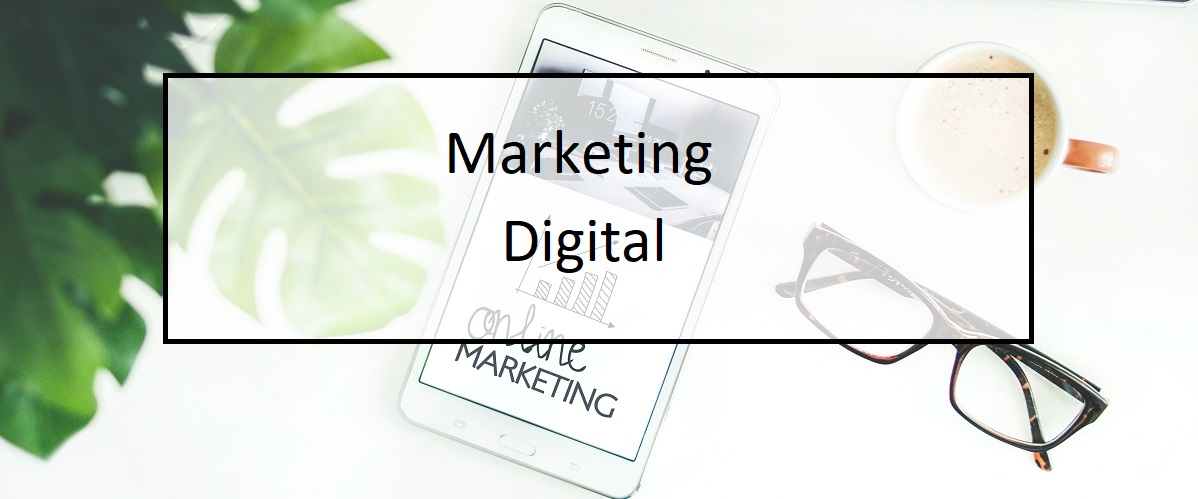
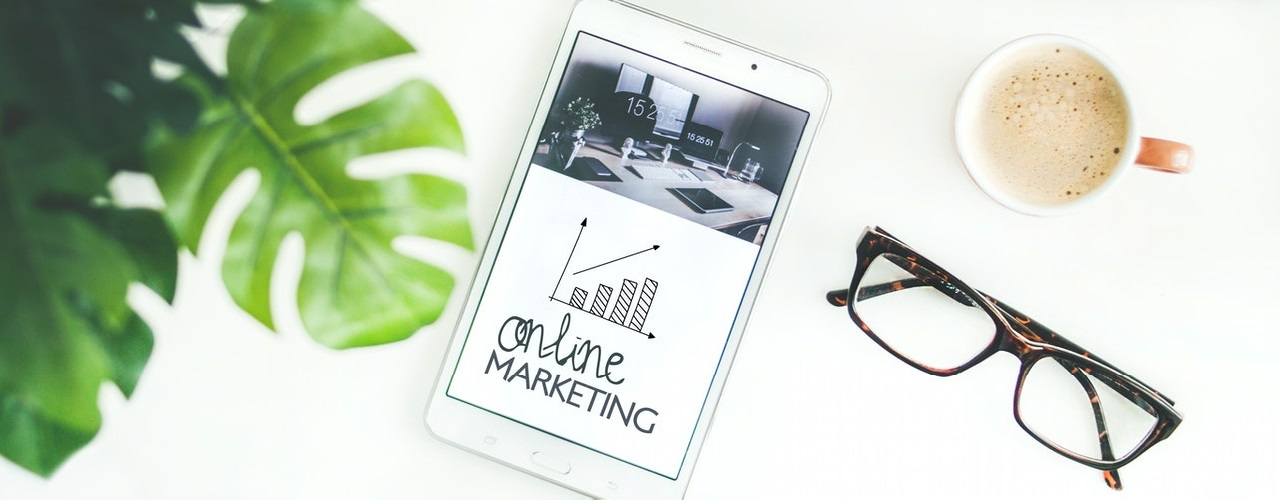
adicionadas as paginas de cada curso

diff --git a/cursodes.html b/cursodes.html
@@ -49,76 +49,28 @@
 <!--Final da navegação-->
 
 <div id="corpo" class="container-fluid">   
-  <div class="container">        
-    <div class="container-fluid justify-content-center pt-3"> 
-      <div id="carouselExampleControls" class="carousel slide" data-bs-ride="carousel">
-        <div class="carousel-inner">
-          <div class="carousel-item active">
-            <img src="img/img1.jpg" class="d-block w-100" alt="...">
-          </div>
-          <div class="carousel-item">
-            <img src="img/img2.jpg" class="d-block w-100" alt="...">
-          </div>
-          <div class="carousel-item">
-            <img src="img/img3.jpg" class="d-block w-100" alt="...">
-          </div>
-          <div class="carousel-item">
-            <a href="https://www.youtube.com/watch?v=qm1Clv5IjOQ" target="_blank"><img src="img/img4.jpg" class="d-block w-100" alt="..."></a>
-          </div>
-        </div>
-        <button class="carousel-control-prev" type="button" data-bs-target="#carouselExampleControls" data-bs-slide="prev">
-        <span class="carousel-control-prev-icon" aria-hidden="true"></span>
-        <span class="visually-hidden">Anterior</span>
-        </button>
-        <button class="carousel-control-next" type="button" data-bs-target="#carouselExampleControls" data-bs-slide="next">
-        <span class="carousel-control-next-icon" aria-hidden="true"></span>
-        <span class="visually-hidden">Próximo</span>
-        </button>
-      </div>
-    </div>
+  <div id="titulodev" class="container-fluid text-center pt-3 pb-3">
+    <h1>Design, Marketing e Vídeo</h1>
+    <span id="imgdev">
+    <img src="img/imgdes.jpg" class="img-fluid"alt="Desenvolvimento Web e Java">
+    </span>    
+      <div class="container pt-3">
+        <div class="card-body">
+          <h5 class="card-title">Descrição do curso</h5>
+          <p class="text-start">Lorem ipsum dolor sit amet, consectetur adipiscing elit. Cras eu mauris ut justo feugiat pharetra vitae eu ex. Class aptent taciti sociosqu ad litora torquent per conubia nostra, per inceptos himenaeos. Quisque placerat lacus orci, a laoreet nunc rutrum ut.</p><p class="text-start">Sed eget tortor ultricies libero porta consequat. Donec volutpat libero est, egestas tempus elit euismod vitae. Donec tristique dignissim dignissim. Suspendisse varius interdum euismod. Proin interdum, libero vitae tempor malesuada, felis purus ultricies ligula, eget dictum lorem odio eu nunc. Nam sollicitudin pretium massa eu iaculis.</p><p class="text-start">Quisque efficitur ut lorem et congue. Orci varius natoque penatibus et magnis dis parturient montes, nascetur ridiculus mus. Fusce et purus tempus, suscipit quam eget, ullamcorper sapien. Mauris efficitur non nisi in imperdiet. Nullam luctus egestas pellentesque. Etiam in fringilla ligula.</p>
+          <a href="#" class="btn btn-warning">Ver valor</a>
+        </div>          
+      </div>        
   </div>
-  <!--Final do carrossel-->
-
-  <div class="container">
-    <div class="row pt-3">
-      <div class="col-sm-4 pb-3">
-        <div class="fundocard">
-          <div class="card-body">
-            <h5 class="card-title">Desenvolvedor Web e Java</h5>
-            <p class="card-text">Lorem ipsum dolor sit amet, consectetur adipiscing elit. Praesent diam libero, blandit eu maximus posuere, porta vel dolor.</p>
-            <a href="cursodev.html" class="btn btn-warning">Conheça a formação</a>
-          </div>
-        </div>
-      </div>
-      <div class="col-sm-4 pb-3">
-        <div class="fundocard">
-          <div class="card-body">
-            <h5 class="card-title">Marketing Digital</h5>
-            <p class="card-text">Lorem ipsum dolor sit amet, consectetur adipiscing elit. Praesent diam libero, blandit eu maximus posuere, porta vel dolor.</p>
-            <a href="cursomkt.html" class="btn btn-warning">Conheça a formação</a>
-          </div>
-        </div>
-      </div>
-      <div class="col-sm-4 pb-3">
-        <div class="fundocard">
-          <div class="card-body">
-            <h5 class="card-title">Design, Marketing e Vídeo</h5>
-            <p class="card-text">Lorem ipsum dolor sit amet, consectetur adipiscing elit. Praesent diam libero, blandit eu maximus posuere, porta vel dolor.</p>
-            <a href="cursodes.html" class="btn btn-warning">Conheça a formação</a>
-          </div>
-        </div>
-      </div>
-    </div>
-  </div>
-  <!--Final dos cards dos cursos-->
+<!--Final descrição do curso-->
 
   <div class="container">    
     <div class="row pt-3" id="texto1">        
-      <h1>50 Bits de Liberdade</h1>
-      <p>Cras tincidunt aliquam ipsum, nec mattis mi faucibus eget. Suspendisse potenti. Curabitur consectetur purus vel ante bibendum sollicitudin vitae gravida orci. Suspendisse facilisis lacinia velit. Cras a erat ac arcu pretium auctor in imperdiet dolor. Nullam facilisis sapien et nunc blandit, a varius lectus consequat. Sed id commodo velit.</p>        
+      <h1>A jornada do herói</h1>
+      <p>Cras tincidunt aliquam ipsum, nec mattis mi faucibus eget. Suspendisse potenti. Curabitur consectetur purus vel ante bibendum sollicitudin vitae gravida orci. Suspendisse facilisis lacinia velit. Cras a erat ac arcu pretium auctor in imperdiet dolor. Nullam facilisis sapien et nunc blandit, a varius lectus consequat. Sed id commodo velit.</p>          
     </div>    
-    <div class="row pb-3">
-      <iframe width="100%" height="500" src="https://www.youtube.com/embed/qm1Clv5IjOQ" title="YouTube video player" frameborder="0" allow="accelerometer; autoplay; clipboard-write; encrypted-media; gyroscope; picture-in-picture" allowfullscreen></iframe>
+    <div class="row pt-3 pb-3">
+      <iframe width="100%" height="500" src="https://www.youtube.com/embed/1guaTYQsprw" title="YouTube video player" frameborder="0" allow="accelerometer; autoplay; clipboard-write; encrypted-media; gyroscope; picture-in-picture" allowfullscreen></iframe>
     </div>
   </div>
 </div>

diff --git a/cursomkt.html b/cursomkt.html
@@ -49,76 +49,28 @@
 <!--Final da navegação-->
 
 <div id="corpo" class="container-fluid">   
-  <div class="container">        
-    <div class="container-fluid justify-content-center pt-3"> 
-      <div id="carouselExampleControls" class="carousel slide" data-bs-ride="carousel">
-        <div class="carousel-inner">
-          <div class="carousel-item active">
-            <img src="img/img1.jpg" class="d-block w-100" alt="...">
-          </div>
-          <div class="carousel-item">
-            <img src="img/img2.jpg" class="d-block w-100" alt="...">
-          </div>
-          <div class="carousel-item">
-            <img src="img/img3.jpg" class="d-block w-100" alt="...">
-          </div>
-          <div class="carousel-item">
-            <a href="https://www.youtube.com/watch?v=qm1Clv5IjOQ" target="_blank"><img src="img/img4.jpg" class="d-block w-100" alt="..."></a>
-          </div>
-        </div>
-        <button class="carousel-control-prev" type="button" data-bs-target="#carouselExampleControls" data-bs-slide="prev">
-        <span class="carousel-control-prev-icon" aria-hidden="true"></span>
-        <span class="visually-hidden">Anterior</span>
-        </button>
-        <button class="carousel-control-next" type="button" data-bs-target="#carouselExampleControls" data-bs-slide="next">
-        <span class="carousel-control-next-icon" aria-hidden="true"></span>
-        <span class="visually-hidden">Próximo</span>
-        </button>
-      </div>
-    </div>
+  <div id="titulodev" class="container-fluid text-center pt-3 pb-3">
+    <h1>Marketing Digital</h1>
+    <span id="imgdev">
+    <img src="img/imgmkt.png" class="img-fluid"alt="Desenvolvimento Web e Java">
+    </span>    
+      <div class="container pt-3">
+        <div class="card-body">
+          <h5 class="card-title">Descrição do curso</h5>
+          <p class="text-start">Lorem ipsum dolor sit amet, consectetur adipiscing elit. Cras eu mauris ut justo feugiat pharetra vitae eu ex. Class aptent taciti sociosqu ad litora torquent per conubia nostra, per inceptos himenaeos. Quisque placerat lacus orci, a laoreet nunc rutrum ut.</p><p class="text-start">Sed eget tortor ultricies libero porta consequat. Donec volutpat libero est, egestas tempus elit euismod vitae. Donec tristique dignissim dignissim. Suspendisse varius interdum euismod. Proin interdum, libero vitae tempor malesuada, felis purus ultricies ligula, eget dictum lorem odio eu nunc. Nam sollicitudin pretium massa eu iaculis.</p><p class="text-start">Quisque efficitur ut lorem et congue. Orci varius natoque penatibus et magnis dis parturient montes, nascetur ridiculus mus. Fusce et purus tempus, suscipit quam eget, ullamcorper sapien. Mauris efficitur non nisi in imperdiet. Nullam luctus egestas pellentesque. Etiam in fringilla ligula.</p>
+          <a href="#" class="btn btn-warning">Ver valor</a>
+        </div>          
+      </div>        
   </div>
-  <!--Final do carrossel-->
-
-  <div class="container">
-    <div class="row pt-3">
-      <div class="col-sm-4 pb-3">
-        <div class="fundocard">
-          <div class="card-body">
-            <h5 class="card-title">Desenvolvedor Web e Java</h5>
-            <p class="card-text">Lorem ipsum dolor sit amet, consectetur adipiscing elit. Praesent diam libero, blandit eu maximus posuere, porta vel dolor.</p>
-            <a href="cursodev.html" class="btn btn-warning">Conheça a formação</a>
-          </div>
-        </div>
-      </div>
-      <div class="col-sm-4 pb-3">
-        <div class="fundocard">
-          <div class="card-body">
-            <h5 class="card-title">Marketing Digital</h5>
-            <p class="card-text">Lorem ipsum dolor sit amet, consectetur adipiscing elit. Praesent diam libero, blandit eu maximus posuere, porta vel dolor.</p>
-            <a href="cursomkt.html" class="btn btn-warning">Conheça a formação</a>
-          </div>
-        </div>
-      </div>
-      <div class="col-sm-4 pb-3">
-        <div class="fundocard">
-          <div class="card-body">
-            <h5 class="card-title">Design, Marketing e Vídeo</h5>
-            <p class="card-text">Lorem ipsum dolor sit amet, consectetur adipiscing elit. Praesent diam libero, blandit eu maximus posuere, porta vel dolor.</p>
-            <a href="cursodes.html" class="btn btn-warning">Conheça a formação</a>
-          </div>
-        </div>
-      </div>
-    </div>
-  </div>
-  <!--Final dos cards dos cursos-->
+<!--Final descrição do curso-->
 
   <div class="container">    
     <div class="row pt-3" id="texto1">        
-      <h1>50 Bits de Liberdade</h1>
-      <p>Cras tincidunt aliquam ipsum, nec mattis mi faucibus eget. Suspendisse potenti. Curabitur consectetur purus vel ante bibendum sollicitudin vitae gravida orci. Suspendisse facilisis lacinia velit. Cras a erat ac arcu pretium auctor in imperdiet dolor. Nullam facilisis sapien et nunc blandit, a varius lectus consequat. Sed id commodo velit.</p>        
+      <h1>A história sem fim</h1>
+      <p>Cras tincidunt aliquam ipsum, nec mattis mi faucibus eget. Suspendisse potenti. Curabitur consectetur purus vel ante bibendum sollicitudin vitae gravida orci. Suspendisse facilisis lacinia velit. Cras a erat ac arcu pretium auctor in imperdiet dolor. Nullam facilisis sapien et nunc blandit, a varius lectus consequat. Sed id commodo velit.</p>          
     </div>    
-    <div class="row pb-3">
-      <iframe width="100%" height="500" src="https://www.youtube.com/embed/qm1Clv5IjOQ" title="YouTube video player" frameborder="0" allow="accelerometer; autoplay; clipboard-write; encrypted-media; gyroscope; picture-in-picture" allowfullscreen></iframe>
+    <div class="row pt-3 pb-3">
+      <iframe width="100%" height="500" src="https://www.youtube.com/embed/_kFIqW-eDNM" title="YouTube video player" frameborder="0" allow="accelerometer; autoplay; clipboard-write; encrypted-media; gyroscope; picture-in-picture" allowfullscreen></iframe>
     </div>
   </div>
 </div>

diff --git a/cursodev.html b/cursodev.html
@@ -49,76 +49,28 @@
 <!--Final da navegação-->
 
 <div id="corpo" class="container-fluid">   
-  <div class="container">        
-    <div class="container-fluid justify-content-center pt-3"> 
-      <div id="carouselExampleControls" class="carousel slide" data-bs-ride="carousel">
-        <div class="carousel-inner">
-          <div class="carousel-item active">
-            <img src="img/img1.jpg" class="d-block w-100" alt="...">
-          </div>
-          <div class="carousel-item">
-            <img src="img/img2.jpg" class="d-block w-100" alt="...">
-          </div>
-          <div class="carousel-item">
-            <img src="img/img3.jpg" class="d-block w-100" alt="...">
-          </div>
-          <div class="carousel-item">
-            <a href="https://www.youtube.com/watch?v=qm1Clv5IjOQ" target="_blank"><img src="img/img4.jpg" class="d-block w-100" alt="..."></a>
-          </div>
+  <div id="titulodev" class="container-fluid text-center pt-3 pb-3">
+    <h1>Desenvolvimento Web e Java</h1>
+    <span id="imgdev">
+    <img src="img/imgdev.jpg" class="img-fluid"alt="Desenvolvimento Web e Java">
+    </span>    
+      <div class="container pt-3">
+        <div class="card-body">
+          <h5 class="card-title">Descrição do curso</h5>
+          <p class="text-start">Lorem ipsum dolor sit amet, consectetur adipiscing elit. Cras eu mauris ut justo feugiat pharetra vitae eu ex. Class aptent taciti sociosqu ad litora torquent per conubia nostra, per inceptos himenaeos. Quisque placerat lacus orci, a laoreet nunc rutrum ut.</p><p class="text-start">Sed eget tortor ultricies libero porta consequat. Donec volutpat libero est, egestas tempus elit euismod vitae. Donec tristique dignissim dignissim. Suspendisse varius interdum euismod. Proin interdum, libero vitae tempor malesuada, felis purus ultricies ligula, eget dictum lorem odio eu nunc. Nam sollicitudin pretium massa eu iaculis.</p><p class="text-start">Quisque efficitur ut lorem et congue. Orci varius natoque penatibus et magnis dis parturient montes, nascetur ridiculus mus. Fusce et purus tempus, suscipit quam eget, ullamcorper sapien. Mauris efficitur non nisi in imperdiet. Nullam luctus egestas pellentesque. Etiam in fringilla ligula.</p>
+          <a href="#" class="btn btn-warning">Ver valor</a>
         </div>
-        <button class="carousel-control-prev" type="button" data-bs-target="#carouselExampleControls" data-bs-slide="prev">
-        <span class="carousel-control-prev-icon" aria-hidden="true"></span>
-        <span class="visually-hidden">Anterior</span>
-        </button>
-        <button class="carousel-control-next" type="button" data-bs-target="#carouselExampleControls" data-bs-slide="next">
-        <span class="carousel-control-next-icon" aria-hidden="true"></span>
-        <span class="visually-hidden">Próximo</span>
-        </button>
-      </div>
-    </div>
+      </div>        
   </div>
-  <!--Final do carrossel-->
-
-  <div class="container">
-    <div class="row pt-3">
-      <div class="col-sm-4 pb-3">
-        <div class="fundocard">
-          <div class="card-body">
-            <h5 class="card-title">Desenvolvedor Web e Java</h5>
-            <p class="card-text">Lorem ipsum dolor sit amet, consectetur adipiscing elit. Praesent diam libero, blandit eu maximus posuere, porta vel dolor.</p>
-            <a href="cursodev.html" class="btn btn-warning">Conheça a formação</a>
-          </div>
-        </div>
-      </div>
-      <div class="col-sm-4 pb-3">
-        <div class="fundocard">
-          <div class="card-body">
-            <h5 class="card-title">Marketing Digital</h5>
-            <p class="card-text">Lorem ipsum dolor sit amet, consectetur adipiscing elit. Praesent diam libero, blandit eu maximus posuere, porta vel dolor.</p>
-            <a href="cursomkt.html" class="btn btn-warning">Conheça a formação</a>
-          </div>
-        </div>
-      </div>
-      <div class="col-sm-4 pb-3">
-        <div class="fundocard">
-          <div class="card-body">
-            <h5 class="card-title">Design, Marketing e Vídeo</h5>
-            <p class="card-text">Lorem ipsum dolor sit amet, consectetur adipiscing elit. Praesent diam libero, blandit eu maximus posuere, porta vel dolor.</p>
-            <a href="cursodes.html" class="btn btn-warning">Conheça a formação</a>
-          </div>
-        </div>
-      </div>
-    </div>
-  </div>
-  <!--Final dos cards dos cursos-->
+<!--Final descrição do curso-->
 
   <div class="container">    
     <div class="row pt-3" id="texto1">        
-      <h1>50 Bits de Liberdade</h1>
-      <p>Cras tincidunt aliquam ipsum, nec mattis mi faucibus eget. Suspendisse potenti. Curabitur consectetur purus vel ante bibendum sollicitudin vitae gravida orci. Suspendisse facilisis lacinia velit. Cras a erat ac arcu pretium auctor in imperdiet dolor. Nullam facilisis sapien et nunc blandit, a varius lectus consequat. Sed id commodo velit.</p>        
+      <h1>O primeiro emprego de programador</h1>
+      <p>Cras tincidunt aliquam ipsum, nec mattis mi faucibus eget. Suspendisse potenti. Curabitur consectetur purus vel ante bibendum sollicitudin vitae gravida orci. Suspendisse facilisis lacinia velit. Cras a erat ac arcu pretium auctor in imperdiet dolor. Nullam facilisis sapien et nunc blandit, a varius lectus consequat. Sed id commodo velit.</p>          
     </div>    
-    <div class="row pb-3">
-      <iframe width="100%" height="500" src="https://www.youtube.com/embed/qm1Clv5IjOQ" title="YouTube video player" frameborder="0" allow="accelerometer; autoplay; clipboard-write; encrypted-media; gyroscope; picture-in-picture" allowfullscreen></iframe>
+    <div class="row pt-3 pb-3">
+      <iframe width="100%" height="500" src="https://www.youtube.com/embed/F3FcaW04czg" title="YouTube video player" frameborder="0" allow="accelerometer; autoplay; clipboard-write; encrypted-media; gyroscope; picture-in-picture" allowfullscreen></iframe>
     </div>
   </div>
 </div>

diff --git a/css/style.css b/css/style.css
@@ -1,6 +1,16 @@
-#corpo {background: rgba(207, 207, 196, 0.9);
+#corpo {background: rgba(207, 207, 196, 0.5);
 		
 }
+
+#titulodev h1 {color: #000000 ;
+			font-family: Impact, fantasy, sans-serif;
+			font-size: 60px;
+			/*background-image: linear-gradient(to right, #FFB03B, #999999, #CFCFC4);
+			background-clip: text;
+  		-webkit-background-clip: text;
+  		-webkit-text-fill-color: transparent;*/
+}
+
 
 #logo{width: 150px;
 	 border-radius: 5%; 
@@ -11,7 +21,8 @@
 
 #texto1 h1 {color: #000000 ;
 			font-family: Impact, fantasy, sans-serif;
-			font-size: 80px;
+			font-size: 60px;
+			text-align: center;
 			background-image: linear-gradient(to right, #FFB03B, #999999, #CFCFC4);
 			background-clip: text;
   		-webkit-background-clip: text;
@@ -20,7 +31,7 @@
 
 #texto1 {color: #000000;
 		/*opacity: 0.5 ;*/
-		text-align:  center;
+		text-align:  justify;
 		font-size: 20px;
 		font-family: Palatino, sans-serif;
 }
@@ -44,7 +55,7 @@
 .fundocard {background-color: #cfcfc4;
 
 }
-.card-body {background-image: linear-gradient(to top, rgba(0,0,0,0.9), rgba(207,207,196,0.8));
+.card-body {background-image: linear-gradient(to top, rgba(255,255,255,0.9), rgba(207,207,196,0.8));
 						padding-top: 10px;
 						color: #000000;
 						background-color: #999999;
@@ -54,8 +65,13 @@
 						border-right-color: #FFB03B;
 						border-top-color: #FFB03B;
 						border-bottom-color: #E8D917;
-						border-left-color: #E8D917;
-						border-radius: 3%;					
+						border-left-color: #E8D917;										
+}
+
+#imgdev img{
+  display: block;
+  margin-left: auto;
+  margin-right: auto;
 }
 
 #footer {
